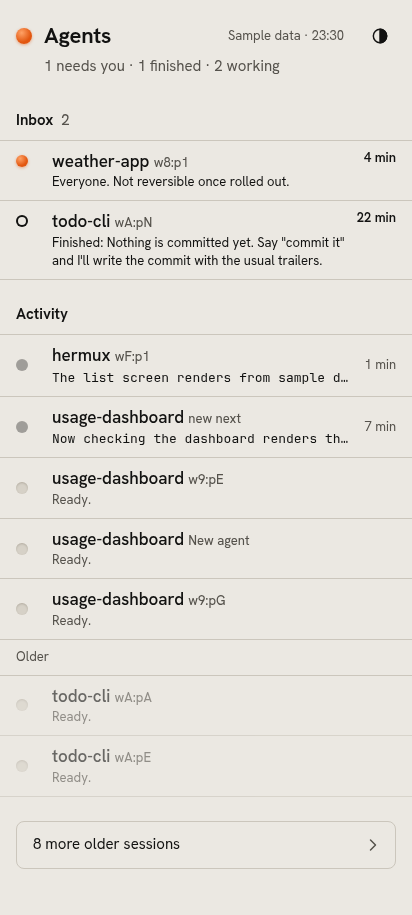
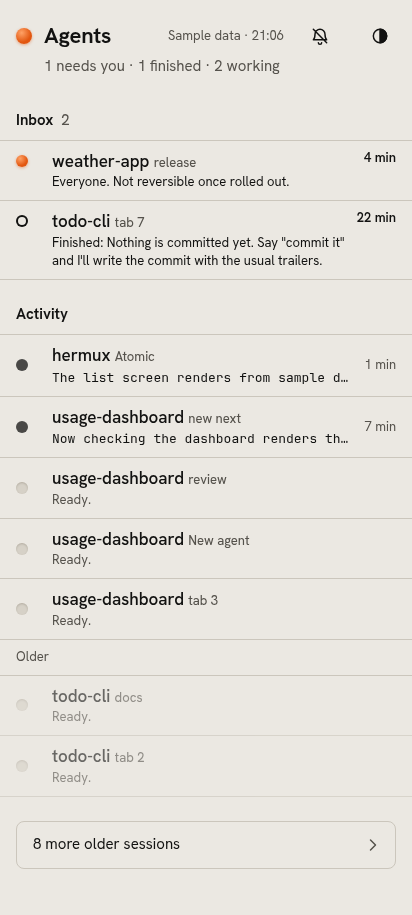
Update: README screenshots that show the features

diff --git a/web/sample-data.js b/web/sample-data.js
@@ -23,19 +23,27 @@ const SKETCHES = "/home/you/projects/hermux/sketches";
 
 /**
  * @param {string} label
- * @param {string} body
+ * @param {string} screen
  */
-const sketch = (label, body) =>
-  `<svg xmlns="http://www.w3.org/2000/svg" width="412" height="915" viewBox="0 0 412 915"><rect width="412" height="915" fill="#ebe8e2"/><rect x="24" y="32" width="240" height="28" rx="4" fill="#121211"/>${body}<rect x="24" y="851" width="160" height="40" rx="4" fill="#121211"/><text x="40" y="878" font-family="sans-serif" font-size="20" font-weight="600" fill="#f7f6f2">${label}</text></svg>`;
-const LINES = `<rect x="24" y="84" width="364" height="16" rx="4" fill="#cbc6bc"/><rect x="24" y="112" width="260" height="16" rx="4" fill="#cbc6bc"/>`;
+const sketch = (label, screen) =>
+  `<svg xmlns="http://www.w3.org/2000/svg" width="960" height="720" viewBox="0 0 960 720"><rect width="960" height="720" fill="#d9d5cd"/><rect x="40" y="36" width="${label.length * 14 + 40}" height="48" rx="8" fill="#121211"/><text x="60" y="68" font-family="sans-serif" font-size="24" font-weight="600" fill="#f7f6f2">${label}</text><g transform="translate(330 108)"><rect width="300" height="580" rx="28" fill="#1d1d1b"/><rect x="10" y="10" width="280" height="560" rx="20" fill="#ebe8e2"/><rect x="26" y="34" width="150" height="18" rx="4" fill="#121211"/><circle cx="262" cy="43" r="8" fill="#e2560f"/><line x1="10" y1="70" x2="290" y2="70" stroke="#cbc6bc" stroke-width="2"/>${screen}</g></svg>`;
+/**
+ * @param {number} y
+ * @param {boolean} [lit]
+ */
+const ROW = (y, lit = false) =>
+  `<circle cx="34" cy="${y + 14}" r="7" fill="${lit ? "#e2560f" : "#d6d1c7"}"/><rect x="52" y="${y}" width="150" height="12" rx="3" fill="#121211"/><rect x="52" y="${y + 20}" width="210" height="10" rx="3" fill="#cbc6bc"/>`;
 
 /** @type {Record<string, string>} */
 const PICTURES = {
-  [`${SKETCHES}/left.png`]: sketch("Sketch A", `${LINES}<circle cx="36" cy="164" r="12" fill="#e2560f"/><rect x="24" y="200" width="364" height="620" rx="4" fill="#f7f6f2" stroke="#cbc6bc" stroke-width="2"/>`),
-  [`${SKETCHES}/middle.png`]: sketch("Sketch B", `<rect x="24" y="84" width="364" height="600" rx="4" fill="#f7f6f2" stroke="#cbc6bc" stroke-width="2"/><rect x="24" y="708" width="172" height="56" rx="4" fill="#cbc6bc"/><rect x="216" y="708" width="172" height="56" rx="4" fill="#cbc6bc"/>`),
+  [`${SKETCHES}/left.png`]: sketch("Sketch A · Inbox first", [90, 140, 200, 250, 300, 350].map((y, i) => ROW(y, i === 0)).join("")),
+  [`${SKETCHES}/middle.png`]: sketch(
+    "Sketch B · Big cards",
+    `${[90, 250].map((y, i) => `<rect x="24" y="${y}" width="252" height="140" rx="8" fill="#f7f6f2" stroke="#cbc6bc" stroke-width="2"/>${ROW(y + 16, i === 0)}<rect x="40" y="${y + 70}" width="200" height="10" rx="3" fill="#cbc6bc"/><rect x="40" y="${y + 90}" width="160" height="10" rx="3" fill="#cbc6bc"/>`).join("")}`,
+  ),
   [`${SKETCHES}/right.png`]: sketch(
-    "Sketch C",
-    `${LINES}${[0, 1, 2, 3].map((i) => `<rect x="${24 + (i % 2) * 190}" y="${156 + Math.floor(i / 2) * 340}" width="174" height="320" rx="4" fill="#f7f6f2" stroke="#cbc6bc" stroke-width="2"/>`).join("")}`,
+    "Sketch C · Grid",
+    [0, 1, 2, 3, 4, 5].map((i) => `<rect x="${24 + (i % 2) * 130}" y="${90 + Math.floor(i / 2) * 150}" width="122" height="138" rx="8" fill="#f7f6f2" stroke="#cbc6bc" stroke-width="2"/><circle cx="${46 + (i % 2) * 130}" cy="${112 + Math.floor(i / 2) * 150}" r="7" fill="${i === 0 ? "#e2560f" : "#d6d1c7"}"/><rect x="${40 + (i % 2) * 130}" y="${132 + Math.floor(i / 2) * 150}" width="80" height="10" rx="3" fill="#121211"/>`).join(""),
   ),
 };
 

diff --git a/README.md b/README.md
@@ -4,11 +4,12 @@ hermux is a phone web app for watching and steering coding agents that run in [H
 
 It installs to your home screen as "Agents".
 
-<p>
-  <img src="docs/screenshots/home.png" alt="Home: the Inbox with a blocked and a finished agent, then Activity" width="240">
-  <img src="docs/screenshots/reader.png" alt="An agent's screen in the Reader, with keys, saved commands and the message box" width="240">
-  <img src="docs/screenshots/switcher.png" alt="The switcher listing every terminal in the agent's workspace" width="240">
-</p>
+| | | |
+|:---:|:---:|:---:|
+| <img src="docs/screenshots/home.png" alt="Home: the Inbox with a blocked and a finished agent, then Activity" width="240"> | <img src="docs/screenshots/question.png" alt="An agent asking a question, answered with the number and arrow keys" width="240"> | <img src="docs/screenshots/attach.png" alt="The clip menu: take a photo or choose a picture, with an attached image above the message bar" width="240"> |
+| **Home**: who needs you, what finished, what's working | **Answer questions** with big keys | **Send pictures**: camera or gallery |
+| <img src="docs/screenshots/picture-paths.png" alt="An agent's screen in the Reader, with view and copy keys after picture paths" width="240"> | <img src="docs/screenshots/viewer.png" alt="A picture from the computer opened full screen, 1 of 3" width="240"> | <img src="docs/screenshots/switcher.png" alt="The switcher listing every terminal in the agent's workspace" width="240"> |
+| **Reader**: picture paths get a view key | **Open computer pictures** full screen | **Switcher**: every terminal in the workspace |
 
 The screenshots use the built-in sample data (`?demo`).
 
@@ -18,7 +19,10 @@ The screenshots use the built-in sample data (`?demo`).
 - **Activity.** Working agents first, then the most recently active others. Older sessions are one tap away.
 - **Reader.** An agent's screen as readable text. Scroll up to load its earlier messages. Links open in a new tab.
 - **Keys.** Esc, Tab, arrows and Enter, number keys while an agent is asking, and a Ctrl+C you hold to send. You can add your own keys.
-- **Saved commands.** One-tap replies you write yourself.
+- **Saved commands.** One-tap replies you write yourself, behind the "/" button in the message bar.
+- **Send pictures.** Attach a screenshot, a photo from your gallery, or a new one from the camera. The picture is saved on the computer and its path goes into your message, so the agent can open it.
+- **Open computer pictures.** A picture path in an agent's output gets a view key. It opens full screen, with zoom and swipe between pictures. Only pictures in your home folder or `/tmp`, outside hidden folders, can be opened.
+- **Notifications.** Optional push notifications when an agent needs you or finishes, turned on from the bell.
 - **Switcher.** Every terminal in a Herdr workspace, agents and plain shells, one tap apart.
 - **Live updates.** Status changes and new output stream from Herdr as they happen. If the stream drops, the app polls until it's back.
 - **Instant open.** The app's files are cached on the phone, so it opens before the network answers.
